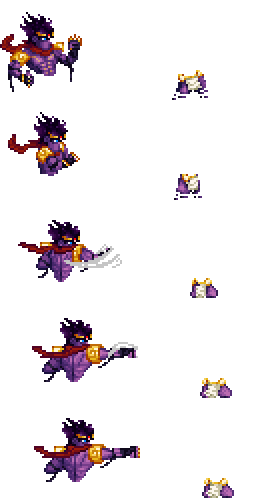
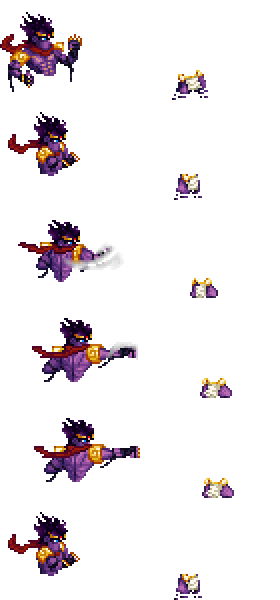
adjustments

diff --git a/Content/Stands/Crusaders/StarPlatinum/StarPlatinumProjectile.cs b/Content/Stands/Crusaders/StarPlatinum/StarPlatinumProjectile.cs
@@ -2,6 +2,7 @@
 using JTA.Common.Players;
 using JTA.Common.Stands;
 using JTA.Common.Systems;
+using JTA.Content.Stands.Crusaders.StarPlatinum;
 using Microsoft.Xna.Framework;
 using Microsoft.Xna.Framework.Graphics;
 using ReLogic.Content;
@@ -37,23 +38,24 @@ namespace JTA.Content.Stands.Crusaders
         public override void SafeDefaults()
         {
             fists = [];
-            for(int i = 0; i < 20; i++) {
+            for(int i = 0; i < 30; i++) {
                 fists.Add(new StarFist());
             }
             range = 32 * 7;
-            Projectile.timeLeft = 20;
+            Projectile.timeLeft = 10;
             Projectile.tileCollide = false;
             var path = "JTA/Content/Stands/Crusaders/StarPlatinum/";
             Add("Idle", new SpriteAnimation(path + "SPIdle").FillFrames(8, 100, 100, 5));
-            Add("Punch1", new SpriteAnimation(path + "SPPunch1").FillFrames(5, 140, 100, 5));
-            Add("Punch2", new SpriteAnimation(path + "SPPunch2").FillFrames(7, 132, 100, 5));
-            Add("Punch3", new SpriteAnimation(path + "SPPunch3").FillFrames(8, 118, 100, 5));
+            Add("Punch2", new SpriteAnimation(path + "SPPunch1").FillFrames(5, 140, 100, 5));
+            Add("Punch1", new SpriteAnimation(path + "SPPunch2").FillFrames(7, 132, 100, 5));
+            Add("Punch3", new SpriteAnimation(path + "SPPunch3").FillFrames(11, 118, 100, 5));
             Add("Barrage", new SpriteAnimation(path + "SPBarrage").FillFrames(6, 92, 100, 2));
             Add("Finger", new SpriteAnimation(path + "SPStarFinger").FillFrames(16, 292, 100, 5).SetSpeed(10, 3));
             Add("Suck", new SpriteAnimation(path + "SPZuck").FillFrames(23, 300, 202, 5));
             Add("GPJump", new SpriteAnimation(path + "SPGroundPound").FillFrames(8, 148, 206, 5).SetLoop(false));
             Add("GPFall", new SpriteAnimation(path + "SPGroundPound").FillFrames(12, 148, 206, 5).SetLoop(false));
             Add("GPHit", new SpriteAnimation(path + "SPGroundPound").FillFrames(16, 148, 206, 5).SetLoop(false));
+            Add("Throw", new SpriteAnimation(path + "SPThrow").FillFrames(11, 166, 128, 5).SetLoop(false));
 
             Add("Block", new SpriteAnimation(path + "SPBlock").FillFrames(4, 100, 100, 5).SetLoop(false));
 
@@ -99,18 +101,26 @@ namespace JTA.Content.Stands.Crusaders
                     if (!mouseRightState)
                         nextAnimation = "Idle";
                     break;
+                case "Throw":
+                    var mousePosition = Main.MouseWorld;
+                    var dir = (mousePosition - owner.Center).SafeNormalize(-Vector2.UnitX) * 16;
+                    if (anim.currentFrame == 8 && anim.time == 0)
+                        Projectile.NewProjectile(owner.GetSource_FromThis(), Projectile.Center, dir, ModContent.ProjectileType<IggyThrown>(), 60, 4, Projectile.owner);
+
+                    nextAnimation = "Idle";
+                    break;
                 case "Barrage":
                     StarFist fist = fists[Main.rand.Next(fists.Count)];
                     if (fist.opacity <= 0) {
                         fist.distance = 0;
-                        fist.startOffset = new Vector2(25, Main.rand.Next(-20, 25));
+                        fist.startOffset = new Vector2(-25, Main.rand.Next(-30, 40));
                         fist.opacity = 1.25f;
                         fist.variation = Main.rand.Next(4);
-                        fist.speed = Main.rand.Next(450, 650) * 0.01f;
+                        fist.speed = Main.rand.Next(850, 1250) * 0.01f;
                     }
                     owner.heldProj = Projectile.whoAmI;
-                    var mousePosition = Main.MouseWorld;
-                    var dir = (mousePosition - owner.Center).SafeNormalize(-Vector2.UnitX) * (Math.Clamp(Vector2.Distance(owner.Center, mousePosition), 0, range));
+                    mousePosition = Main.MouseWorld;
+                    dir = (mousePosition - owner.Center).SafeNormalize(-Vector2.UnitX) * (Math.Clamp(Vector2.Distance(owner.Center, mousePosition), 0, range));
 
                     direction = mousePosition.X < owner.Center.X ? -1 : 1;
                     Projectile.Center = Vector2.Lerp(Projectile.Center, owner.Center + dir, 0.4f);
@@ -271,10 +281,10 @@ namespace JTA.Content.Stands.Crusaders
                 case "GPHit":
                     direction = owner.direction;
                     owner.heldProj = Projectile.whoAmI;
-                    Projectile.Center = owner.Center;
+                    Projectile.Center = owner.Center - new Vector2(0, 70);
                     if (anim.currentFrame == 0 && anim.time <= 0) {
                         anim.currentFrame = 13;
-                        Damage(60, Projectile.Center, new Vector2(300, 100), true, 10, 1);
+                        Damage(60, Projectile.Center + new Vector2(0, 70), new Vector2(300, 100), false, 10, 1);
                     }
 
                     nextAnimation = "Idle";
@@ -292,7 +302,7 @@ namespace JTA.Content.Stands.Crusaders
             for (int i = 0; i < fists.Count; i++) {
                 var fist = fists[i];
                 if (fist.opacity > 0)
-                    fist.opacity -= 0.06f;
+                    fist.opacity -= 0.24f;
                 fist.distance += fist.speed;
             }
         }
@@ -307,7 +317,8 @@ namespace JTA.Content.Stands.Crusaders
                 var sfx = direction == -1 ? SpriteEffects.FlipHorizontally : SpriteEffects.None;
 
                 var texture = anim.texture.Value;
-
+                Main.spriteBatch.End();
+                Main.spriteBatch.Begin(SpriteSortMode.Immediate, BlendState.NonPremultiplied, Main.DefaultSamplerState, DepthStencilState.None, Main.Rasterizer, null, Main.GameViewMatrix.ZoomMatrix);
                 anim.Draw(Main.spriteBatch, texture, (Projectile.Center - Main.screenPosition).Floor(), Color.White, 0, scale: scale, sfx: sfx);
                 var frame = anim.frames[anim.currentFrame];
                 Effect fx = ShaderSystem.FadeOutShader;

diff --git a/Content/Stands/Crusaders/StarPlatinum/IggyThrown.cs b/Content/Stands/Crusaders/StarPlatinum/IggyThrown.cs
@@ -1,0 +1,39 @@
+using JTA.Common.Graphics;
+using Microsoft.Xna.Framework;
+using Microsoft.Xna.Framework.Graphics;
+using Terraria;
+using Terraria.ID;
+using Terraria.ModLoader;
+
+namespace JTA.Content.Stands.Crusaders.StarPlatinum
+{
+    public class IggyThrown : ModProjectile
+    {
+        SpriteAnimation anim;
+        public override void SetDefaults()
+        {
+            anim = new SpriteAnimation("JTA/Content/Stands/Crusaders/StarPlatinum/IggyThrown");
+            anim.FillFrames(4, 40, 36, 5);
+            Projectile.width = Projectile.height = 32;
+            Projectile.timeLeft = 600;
+            Projectile.tileCollide = true;
+            Projectile.friendly = true;
+            Projectile.aiStyle = ProjAIStyleID.Arrow;
+        }
+
+        public override void AI()
+        {
+            anim.Update();
+        }
+
+        public override bool PreDraw(ref Color lightColor)
+        {
+            return false;
+        }
+
+        public override void PostDraw(Color lightColor)
+        {
+            Main.EntitySpriteDraw(anim.texture.Value, Projectile.Center - Main.screenPosition, anim.frames[anim.currentFrame].AsRect(), lightColor, Projectile.velocity.ToRotation(), new Vector2(20, 18), 1f, SpriteEffects.None);
+        }
+    }
+}

diff --git a/Common/Players/StandPlayer.cs b/Common/Players/StandPlayer.cs
@@ -1,4 +1,5 @@
-using JTA.Common.Systems;
+using JTA.Common.Stands;
+using JTA.Common.Systems;
 using JTA.Common.UI;
 using JTA.Content;
 using Microsoft.Xna.Framework;
@@ -32,6 +33,17 @@ namespace JTA.Common.Players
             activeStandProjectile = UNSUMMONED;
             stand = "Star Platinum";
             selectedAbilityIndex = 0;
+        }
+
+        public override void ResetEffects()
+        {
+            base.ResetEffects();
+            if (activeStandProjectile != UNSUMMONED) {
+                Projectile proj = Main.projectile[activeStandProjectile];
+                if (proj.ModProjectile is StandProjectile stand)
+                    if (stand.CurrentAnimation == "Block")
+                        Player.controlUseItem = false;
+            }
         }
 
         public override void PostUpdate()

diff --git a/Content/Stands/Crusaders/StarPlatinum/StarThrowAbility.cs b/Content/Stands/Crusaders/StarPlatinum/StarThrowAbility.cs
@@ -1,0 +1,23 @@
+using JTA.Common.Players;
+using Terraria;
+
+namespace JTA.Content.Stands.Crusaders.StarPlatinum
+{
+    public class StarThrowAbility : StandAbility
+    {
+        public StarThrowAbility() : base("Perfect Pitch", "Ranged Attack")
+        {
+        }
+
+        protected override void UseAbility(Player player)
+        {
+            var check = StandPlayer.Get(player).GetStandProjectile();
+
+            if (check != null && check.ModProjectile is StarPlatinumProjectile realStand && realStand.CurrentAnimation == "Idle") {
+                realStand.startDirection = player.direction;
+                realStand.CurrentAnimation = "Throw";
+                check.netUpdate = true;
+            }
+        }
+    }
+}

diff --git a/Common/Stands/StandProjectile.cs b/Common/Stands/StandProjectile.cs
@@ -116,7 +116,7 @@ namespace JTA.Common.Stands
             Projectile proj = Main.projectile[hitboxId];
             proj.width = (int)size.X;
             proj.height = (int)size.Y;
-            proj.Center -= size * 0.5f;
+            //proj.Center -= size * 0.5f;
             proj.timeLeft = timeLeft;
             proj.DamageType = Projectile.DamageType;
             proj.direction = Projectile.direction;

diff --git a/Content/StandDefinitions.cs b/Content/StandDefinitions.cs
@@ -15,6 +15,7 @@ namespace JTA.Content
             starPlatinum.Abilities.Add(new StarFingerAbility());
             starPlatinum.Abilities.Add(new StarSuckAbility());
             starPlatinum.Abilities.Add(new StarGroundPound());
+            starPlatinum.Abilities.Add(new StarThrowAbility());
 
             RegisterStand(starPlatinum);
         }

diff --git a/Content/Stands/DamageHitbox.cs b/Content/Stands/DamageHitbox.cs
@@ -22,6 +22,7 @@ namespace JTA.Content.Stands
             Projectile.penetrate = -1;
             Projectile.damage = 0;
             Projectile.tileCollide = false;
+            Projectile.aiStyle = -1;
             hitSpeed = 20;
         }
 

diff --git a/Content/GlobalEffects/TimeStopSystem.cs b/Content/GlobalEffects/TimeStopSystem.cs
@@ -1,8 +1,4 @@
-using System;
-using System.Collections.Generic;
-using System.Linq;
-using System.Text;
-using System.Threading.Tasks;
+using System.Collections.Generic;
 using Terraria;
 using Terraria.ModLoader;
 
